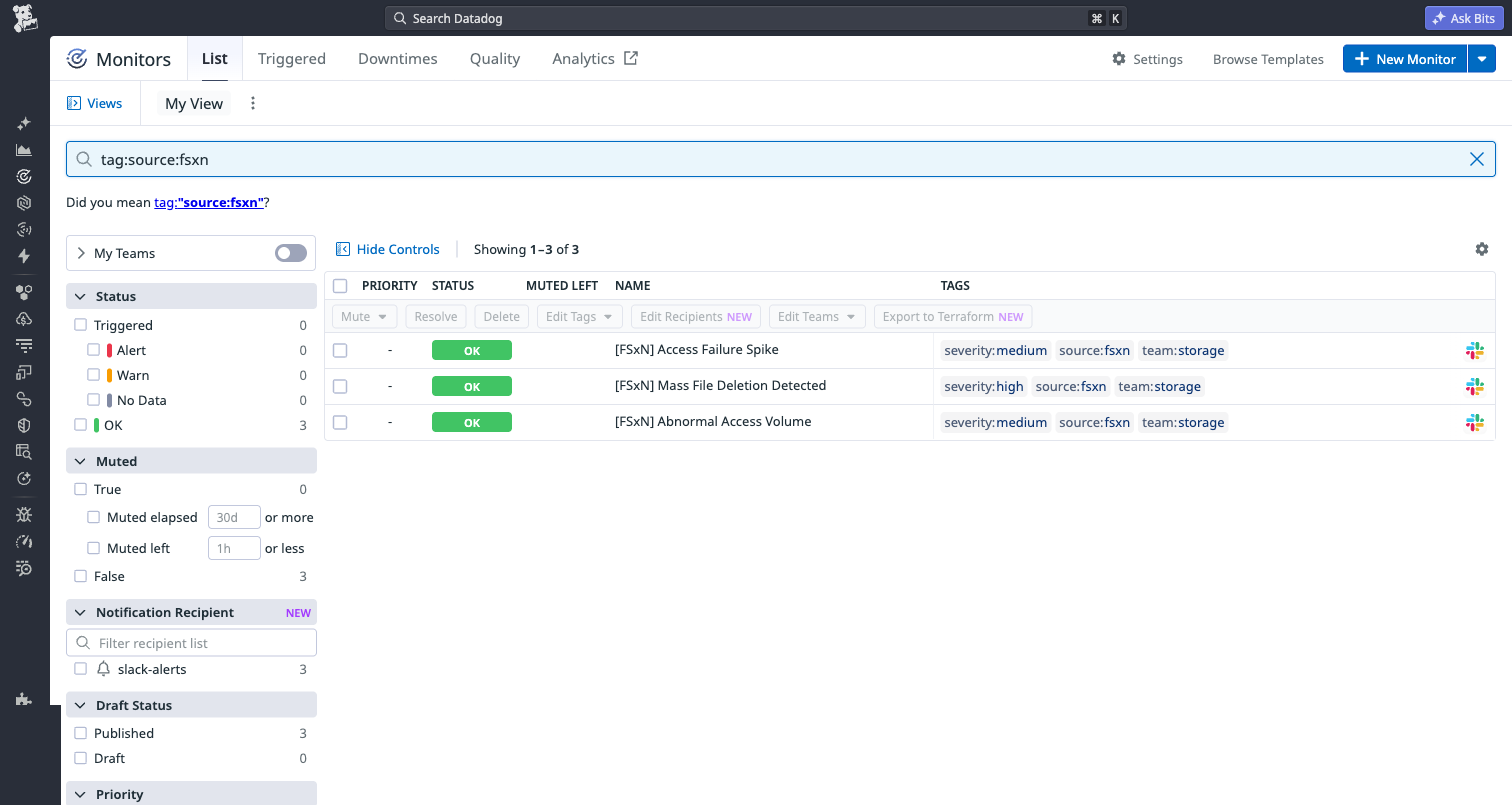
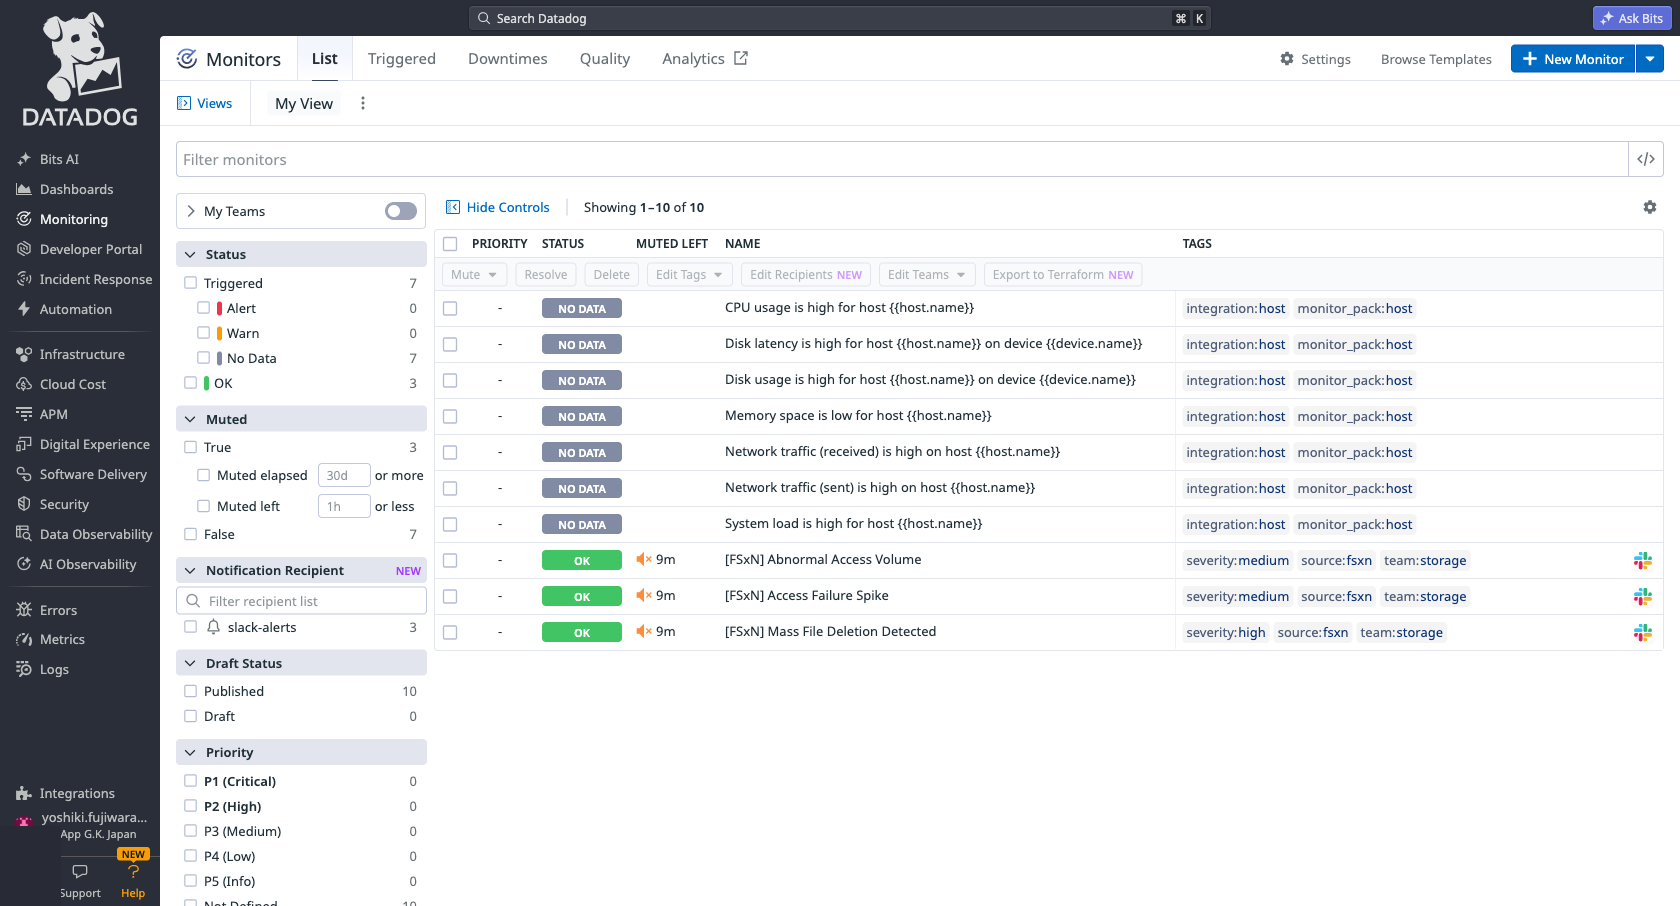
feat: add Facets, Pipeline, Monitors screenshots (masked, metadata stripped)
- datadog-log-explorer-facets.png: Log Explorer with 8 custom facets visible
- datadog-log-pipeline-fsxn.png: Pipeline configuration page
- datadog-monitors-fsxn.png: Updated monitors list (3 FSxN monitors)
- README: Added facets screenshot reference

diff --git a/integrations/datadog/README.md b/integrations/datadog/README.md
@@ -138,6 +138,8 @@ After deploying and sending initial logs, add custom Facets for faster filtering
 2. Hover over a field (e.g., `event_type`) → Click the gear icon → "Create facet"
 3. Repeat for: `@event_type`, `@user`, `@svm`, `@path`, `@client_ip`, `@operation`, `@result`, `@operation_name`
 
+![Facets in Log Explorer](screenshots/datadog-log-explorer-facets.png)
+
 These facets enable:
 - Left sidebar filtering by user, SVM, operation type
 - One-click drill-down from dashboard widgets